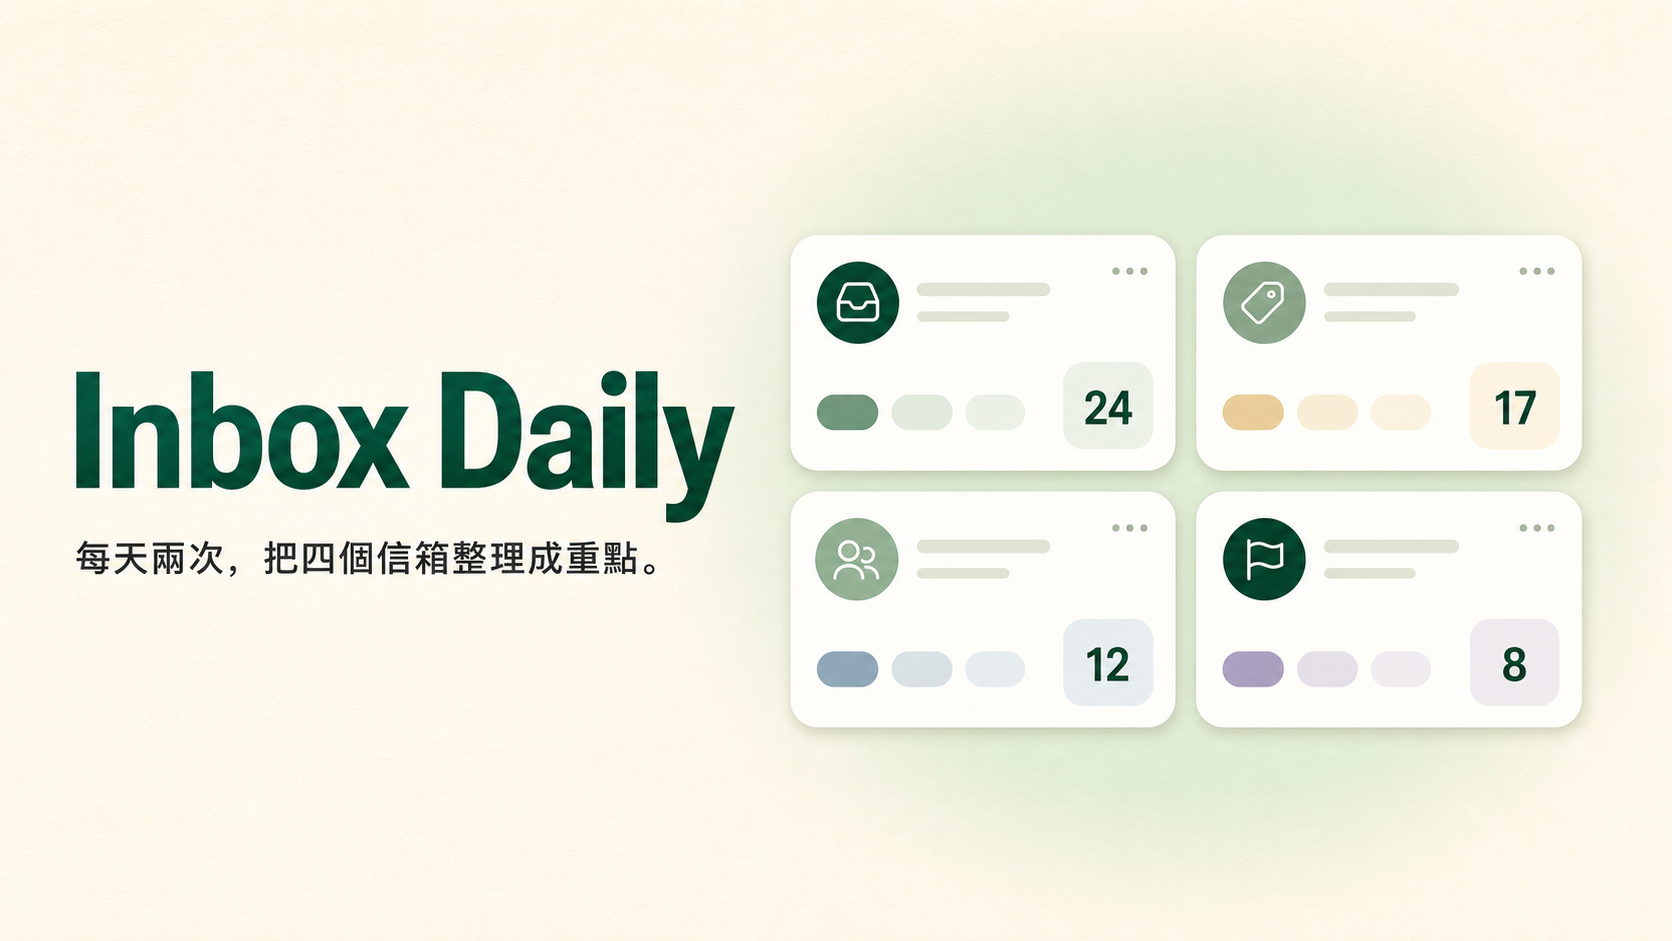
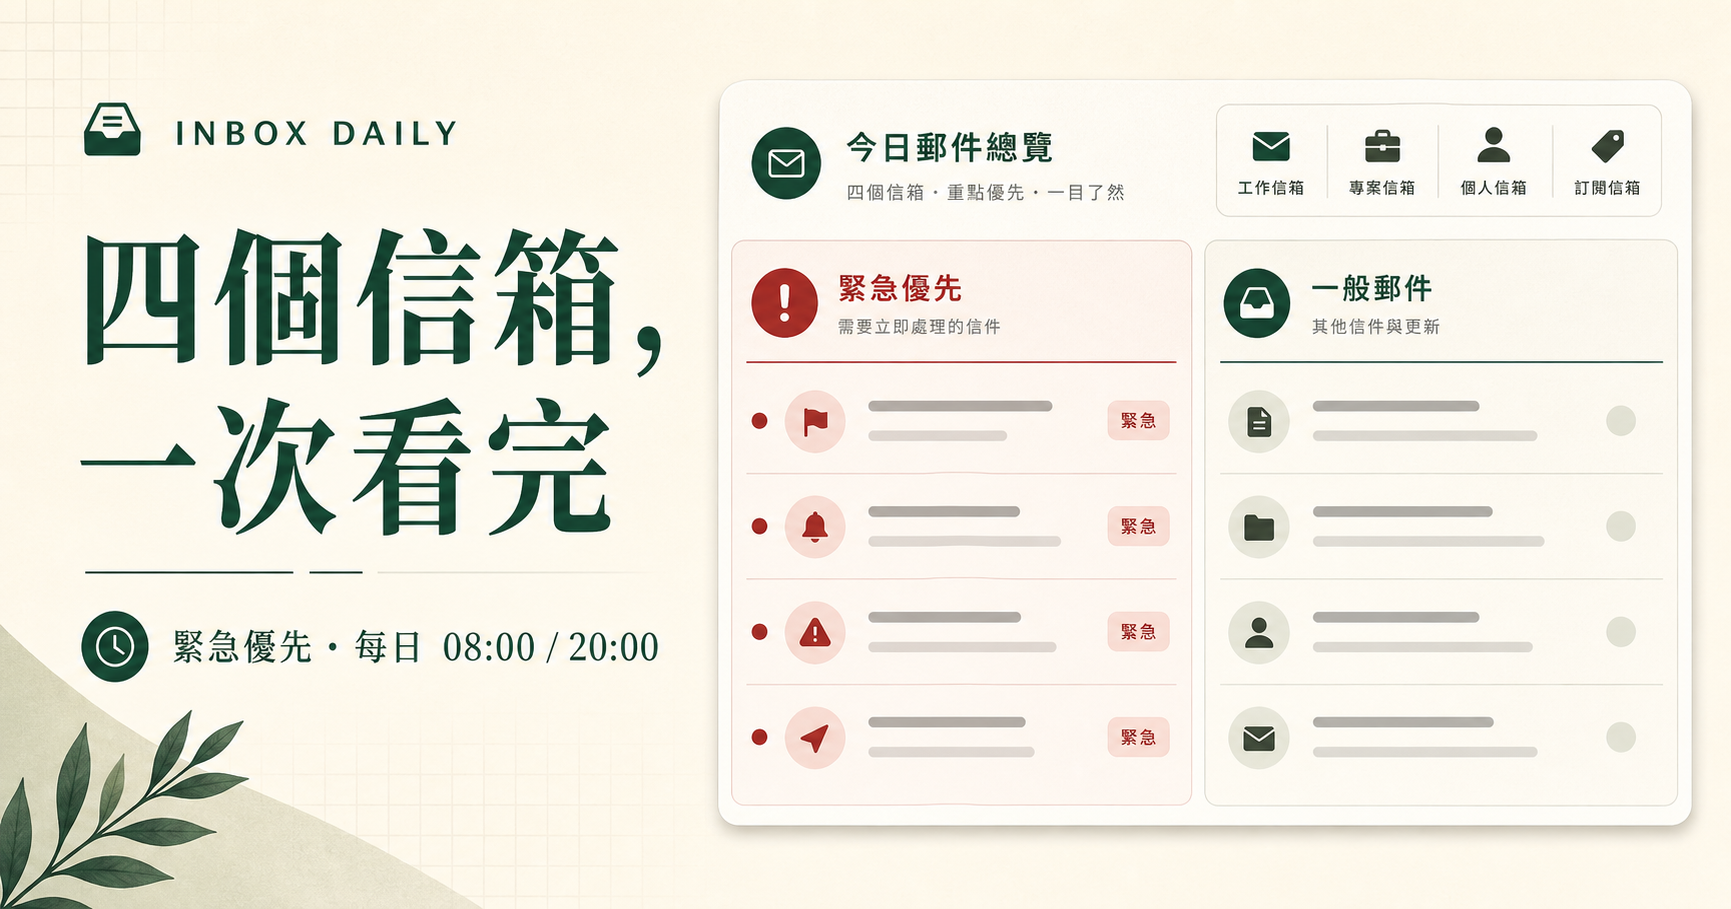
feat: combine mailboxes into urgency-first dashboard

Changed region(s): [[0.0311, 0.0924, 0.9952, 0.9241], [0.0, 0.6777, 0.3732, 1.0], [0.0311, 0.1232, 0.2799, 0.1848]]

diff --git a/dashboard/app/page.tsx b/dashboard/app/page.tsx
@@ -4,6 +4,10 @@ import { getDigestRuns, type DigestRun } from "@/db/digests";
 export const dynamic = "force-dynamic";
 
 type SearchParams = Promise<{ run?: string }>;
+type CombinedSuggestion = DigestRun["accounts"][number]["aiSuggestions"][number] & {
+  accountName: string;
+  accountEmail: string;
+};
 
 function formatTime(value: string) {
   return new Intl.DateTimeFormat("zh-TW", {
@@ -29,9 +33,47 @@ function gmailThreadUrl(email: string, threadId: string) {
 
 const priorityOrder = { urgent: 0, important: 1, normal: 2 } as const;
 const priorityLabel = { urgent: "緊急", important: "重要", normal: "一般" } as const;
+const categoryLabel: Record<string, string> = {
+  Security: "安全",
+  Billing: "財務",
+  "Job Alerts": "求職",
+  Reading: "閱讀",
+  Courses: "課程",
+  Promotions: "促銷",
+  Other: "其他",
+};
 
 function normalizedPriority(value: string | undefined): keyof typeof priorityOrder {
   return value === "urgent" || value === "important" ? value : "normal";
+}
+
+function HighlightList({ items, empty }: { items: CombinedSuggestion[]; empty: string }) {
+  if (!items.length) return <p className="highlight-empty">{empty}</p>;
+  return (
+    <ol className="highlight-list">
+      {items.map((item, index) => {
+        const priority = normalizedPriority(item.priority);
+        return (
+          <li key={`${item.accountEmail}-${item.threadId}-${index}`}>
+            <div className="highlight-meta">
+              <span className={`priority priority-${priority}`}>{priorityLabel[priority]}</span>
+              <span className="account-chip">Gmail {item.accountName}</span>
+              <span className="category-badge">{categoryLabel[item.category] ?? item.category}</span>
+            </div>
+            <a
+              className="highlight-link"
+              href={gmailThreadUrl(item.accountEmail, item.threadId)}
+              target="_blank"
+              rel="noreferrer"
+            >
+              {item.subject || "開啟這封郵件"} ↗
+            </a>
+            <p>{item.summary}</p>
+          </li>
+        );
+      })}
+    </ol>
+  );
 }
 
 function authorized(email: string) {
@@ -76,6 +118,23 @@ export default async function Home({ searchParams }: { searchParams: SearchParam
   const runs = await getDigestRuns();
   const requested = (await searchParams).run;
   const active = runs.find((run) => run.id === requested) ?? runs[0];
+  const combined = active
+    ? active.accounts
+        .flatMap((account) =>
+          account.aiSuggestions.map((item) => ({
+            ...item,
+            accountName: account.name,
+            accountEmail: account.email,
+          })),
+        )
+        .sort(
+          (left, right) =>
+            priorityOrder[normalizedPriority(left.priority)] -
+            priorityOrder[normalizedPriority(right.priority)],
+        )
+    : [];
+  const urgent = combined.filter((item) => normalizedPriority(item.priority) === "urgent");
+  const general = combined.filter((item) => normalizedPriority(item.priority) !== "urgent");
 
   return (
     <main className="shell">
@@ -119,9 +178,35 @@ export default async function Home({ searchParams }: { searchParams: SearchParam
             ))}
           </nav>
 
+          <section className="combined-overview" aria-labelledby="combined-title">
+            <div className="section-heading">
+              <div>
+                <span className="eyebrow">ALL MAILBOXES</span>
+                <h2 id="combined-title">四個信箱，一次看完</h2>
+              </div>
+              <p>緊急信優先；每封都標示來源信箱與分類。</p>
+            </div>
+            <div className="priority-columns">
+              <article className="priority-panel urgent-panel">
+                <header>
+                  <div><span className="signal-dot" />需要先處理</div>
+                  <strong>{urgent.length}</strong>
+                </header>
+                <HighlightList items={urgent.slice(0, 12)} empty="目前沒有緊急郵件。" />
+              </article>
+              <article className="priority-panel general-panel">
+                <header>
+                  <div>重要與一般</div>
+                  <strong>{general.length}</strong>
+                </header>
+                <HighlightList items={general.slice(0, 16)} empty="這次沒有其他摘要。" />
+              </article>
+            </div>
+          </section>
+
           <section className="account-grid">
             {active.accounts.map((account) => (
-              <article className="account-card" key={account.email}>
+              <article className="account-card compact-account" key={account.email}>
                 <header>
                   <div className="account-letter">{account.name}</div>
                   <div><h2>{account.email}</h2><p>Gmail {account.name}</p></div>

diff --git a/dashboard/app/globals.css b/dashboard/app/globals.css
@@ -71,6 +71,54 @@ a { color: inherit; }
 }
 .timeline a.active { background: var(--green); border-color: var(--green); color: white; }
 
+.combined-overview {
+  margin-bottom: 22px; padding: clamp(22px, 4vw, 36px); border: 1px solid #cfd8d1;
+  border-radius: 30px; background: rgba(255, 253, 248, .94);
+  box-shadow: 0 24px 70px rgba(34, 49, 41, .07);
+}
+.section-heading {
+  display: flex; align-items: end; justify-content: space-between; gap: 24px; margin-bottom: 24px;
+}
+.section-heading h2 { margin: 7px 0 0; font-size: clamp(26px, 4vw, 42px); letter-spacing: -.055em; }
+.section-heading p { max-width: 360px; margin: 0; color: var(--muted); font-size: 13px; text-align: right; }
+.priority-columns { display: grid; grid-template-columns: minmax(0, 1.05fr) minmax(0, 1fr); gap: 14px; }
+.priority-panel { min-width: 0; padding: 18px; border: 1px solid var(--line); border-radius: 22px; background: #faf8f2; }
+.priority-panel > header {
+  display: flex; align-items: center; justify-content: space-between; padding-bottom: 13px;
+  border-bottom: 1px solid var(--line); font-size: 13px; font-weight: 750;
+}
+.priority-panel > header strong {
+  display: grid; place-items: center; min-width: 29px; height: 29px; padding: 0 8px;
+  border-radius: 999px; background: var(--ink); color: white; font-size: 12px;
+}
+.urgent-panel { border-color: #e6b9b3; background: linear-gradient(145deg, #fff8f5, #fffdf9); }
+.urgent-panel > header { color: #8a2d25; border-color: #efd3cf; }
+.urgent-panel > header strong { background: #9d2f2f; }
+.signal-dot {
+  display: inline-block; width: 8px; height: 8px; margin-right: 8px;
+  border-radius: 50%; background: #b43c32; box-shadow: 0 0 0 5px rgba(180, 60, 50, .1);
+}
+.highlight-list { list-style: none; margin: 0; padding: 0; }
+.highlight-list li { padding: 15px 0; }
+.highlight-list li + li { border-top: 1px dashed var(--line); }
+.highlight-meta { display: flex; flex-wrap: wrap; align-items: center; gap: 6px; margin-bottom: 7px; }
+.highlight-meta span { padding: 4px 7px; border-radius: 7px; font-size: 9px; font-weight: 750; line-height: 1.3; }
+.highlight-meta .priority { color: white; }
+.highlight-meta .priority-urgent { background: #9d2f2f; }
+.highlight-meta .priority-important { background: var(--amber); }
+.highlight-meta .priority-normal { background: var(--ink); }
+.account-chip { background: #e7eee9; color: var(--green); }
+.highlight-meta .category-badge { border: 1px solid #d7d4ca; background: white; color: var(--muted); }
+.highlight-link {
+  display: block; overflow: hidden; color: var(--ink); font-size: 13px; font-weight: 760;
+  line-height: 1.45; text-decoration-color: #aab8b0; text-underline-offset: 3px; text-overflow: ellipsis;
+  white-space: nowrap;
+}
+.highlight-link:hover { color: var(--green); }
+.highlight-link:focus-visible { outline: 2px solid var(--green); outline-offset: 3px; border-radius: 3px; }
+.highlight-list p { margin: 5px 0 0; color: #4d5952; font-size: 12px; line-height: 1.55; }
+.highlight-empty { margin: 18px 0 4px; color: var(--muted); font-size: 13px; }
+
 .account-grid { display: grid; grid-template-columns: repeat(2, minmax(0, 1fr)); gap: 18px; }
 .account-card {
   min-width: 0; padding: 24px; border: 1px solid var(--line); border-radius: 24px;
@@ -119,6 +167,9 @@ a { color: inherit; }
 .mail-link:hover { color: #0d3628; }
 .mail-link:focus-visible { outline: 2px solid var(--green); outline-offset: 3px; border-radius: 3px; }
 .quiet { color: var(--muted); }
+.compact-account .ai-section { display: none; }
+.compact-account { padding: 19px 20px; border-radius: 20px; box-shadow: none; }
+.compact-account .category-row { margin: 16px 0 12px; }
 
 .empty-state { padding: 18vh 0; max-width: 700px; }
 .gate { min-height: 100vh; display: grid; place-items: center; padding: 24px; }
@@ -143,6 +194,11 @@ footer { padding: 34px 0 0; color: var(--muted); text-align: center; font-size: 
   .hero-stats { display: grid; grid-template-columns: repeat(3, 1fr); gap: 7px; }
   .hero-stats div { min-width: 0; padding: 13px 11px; border-radius: 14px; }
   .hero-stats strong { font-size: 24px; }
+  .section-heading { display: block; }
+  .section-heading p { margin-top: 10px; text-align: left; }
+  .priority-columns { grid-template-columns: 1fr; }
+  .combined-overview { padding: 18px; border-radius: 22px; }
+  .priority-panel { padding: 15px; border-radius: 18px; }
   .account-grid { grid-template-columns: 1fr; }
   .account-card { padding: 18px; border-radius: 20px; }
 }

diff --git a/.spec/private-dashboard/tasks.md b/.spec/private-dashboard/tasks.md
@@ -11,3 +11,4 @@
 - [x] End-to-end smoke verifies Railway ingestion and authenticated dashboard rendering.
 - [x] AI highlights are ordered by urgency and show separate, visually distinct urgency and category labels.
 - [x] AI may apply category labels only when explicitly enabled and confidence is at least 0.90; it never archives, deletes, or replies.
+- [x] The latest digest combines all four mailboxes into one urgency-first overview while preserving account identity and Gmail links.